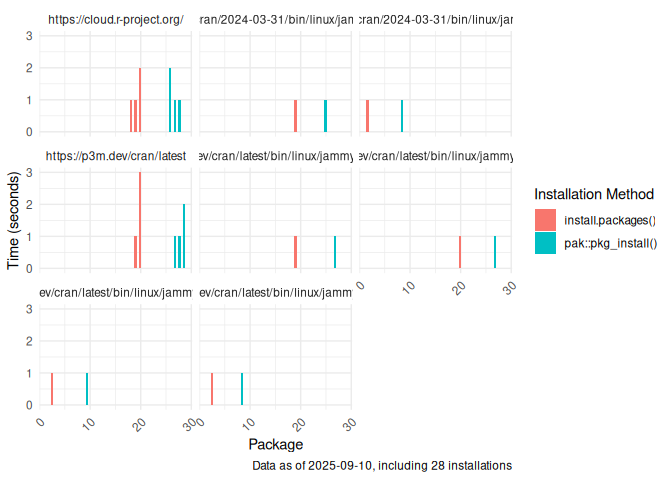
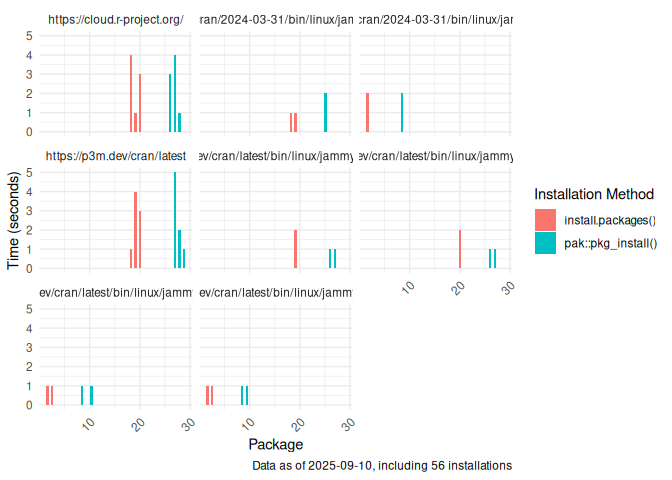
Add package installation summary

diff --git a/README.md b/README.md
@@ -17,27 +17,27 @@ The following table shows the distribution of the installations so far:
 
 |                                                             | source |
 |:------------------------------------------------------------|-------:|
-| https://cloud.r-project.org/                                |      4 |
-| https://p3m.dev/cran/2024-03-31/bin/linux/jammy-aarch64/4.4 |      1 |
-| https://p3m.dev/cran/2024-03-31/bin/linux/jammy-x86_64/4.4  |      1 |
-| https://p3m.dev/cran/latest                                 |      4 |
-| https://p3m.dev/cran/latest/bin/linux/jammy-aarch64/4.4     |      1 |
-| https://p3m.dev/cran/latest/bin/linux/jammy-aarch64/4.5     |      1 |
-| https://p3m.dev/cran/latest/bin/linux/jammy-x86_64/4.4      |      1 |
-| https://p3m.dev/cran/latest/bin/linux/jammy-x86_64/4.5      |      1 |
+| https://cloud.r-project.org/                                |      8 |
+| https://p3m.dev/cran/2024-03-31/bin/linux/jammy-aarch64/4.4 |      2 |
+| https://p3m.dev/cran/2024-03-31/bin/linux/jammy-x86_64/4.4  |      2 |
+| https://p3m.dev/cran/latest                                 |      8 |
+| https://p3m.dev/cran/latest/bin/linux/jammy-aarch64/4.4     |      2 |
+| https://p3m.dev/cran/latest/bin/linux/jammy-aarch64/4.5     |      2 |
+| https://p3m.dev/cran/latest/bin/linux/jammy-x86_64/4.4      |      2 |
+| https://p3m.dev/cran/latest/bin/linux/jammy-x86_64/4.5      |      2 |
 
 Using pak::pkg_install()
 
 |                                                             | binary | source |
 |:------------------------------------------------------------|-------:|-------:|
-| https://cloud.r-project.org/                                |      0 |      4 |
-| https://p3m.dev/cran/2024-03-31/bin/linux/jammy-aarch64/4.4 |      0 |      1 |
-| https://p3m.dev/cran/2024-03-31/bin/linux/jammy-x86_64/4.4  |      1 |      0 |
-| https://p3m.dev/cran/latest                                 |      0 |      4 |
-| https://p3m.dev/cran/latest/bin/linux/jammy-aarch64/4.4     |      0 |      1 |
-| https://p3m.dev/cran/latest/bin/linux/jammy-aarch64/4.5     |      0 |      1 |
-| https://p3m.dev/cran/latest/bin/linux/jammy-x86_64/4.4      |      1 |      0 |
-| https://p3m.dev/cran/latest/bin/linux/jammy-x86_64/4.5      |      1 |      0 |
+| https://cloud.r-project.org/                                |      0 |      8 |
+| https://p3m.dev/cran/2024-03-31/bin/linux/jammy-aarch64/4.4 |      0 |      2 |
+| https://p3m.dev/cran/2024-03-31/bin/linux/jammy-x86_64/4.4  |      2 |      0 |
+| https://p3m.dev/cran/latest                                 |      0 |      8 |
+| https://p3m.dev/cran/latest/bin/linux/jammy-aarch64/4.4     |      0 |      2 |
+| https://p3m.dev/cran/latest/bin/linux/jammy-aarch64/4.5     |      0 |      2 |
+| https://p3m.dev/cran/latest/bin/linux/jammy-x86_64/4.4      |      2 |      0 |
+| https://p3m.dev/cran/latest/bin/linux/jammy-x86_64/4.5      |      2 |      0 |
 
 Using install.packages()
 
